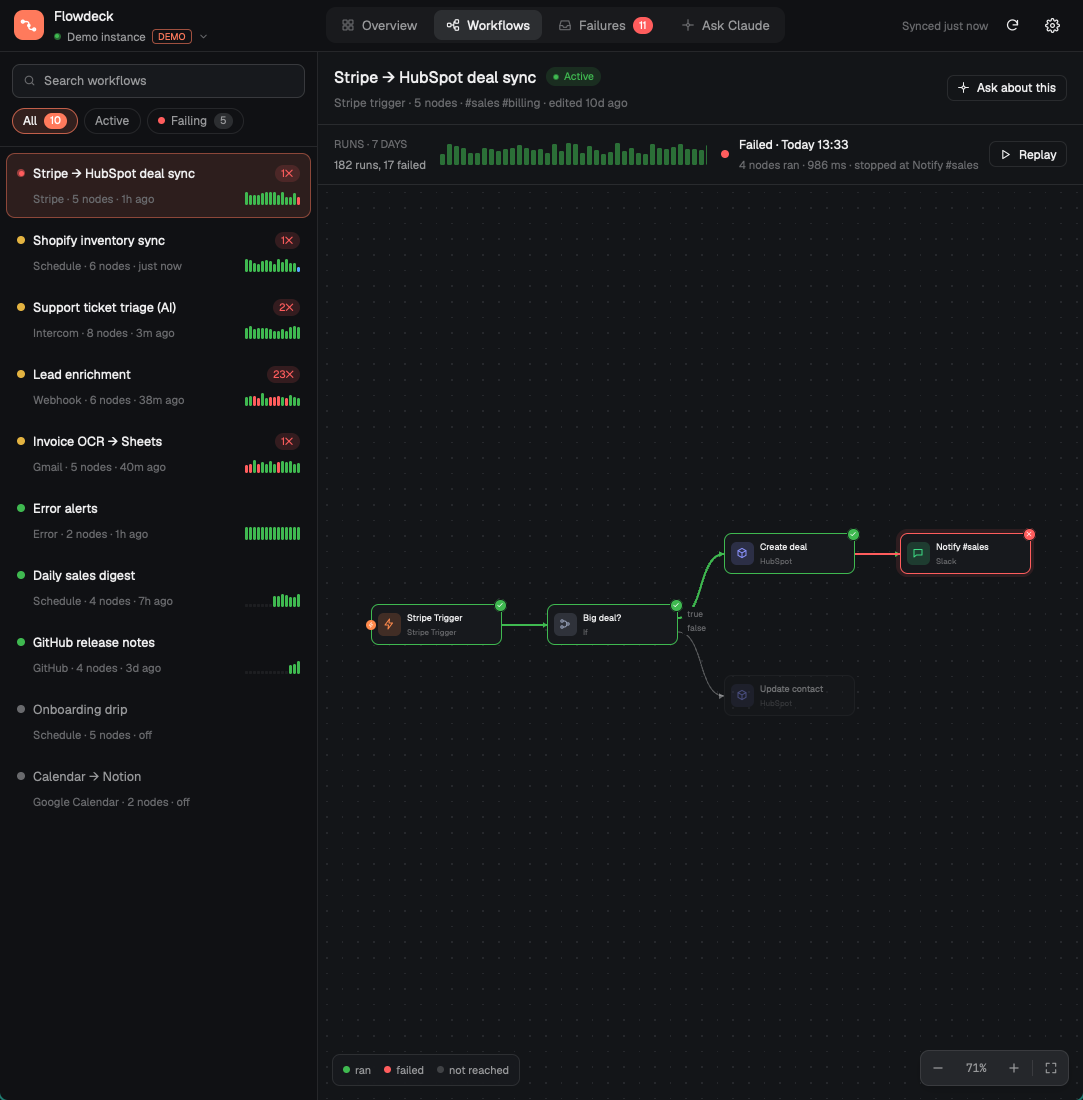
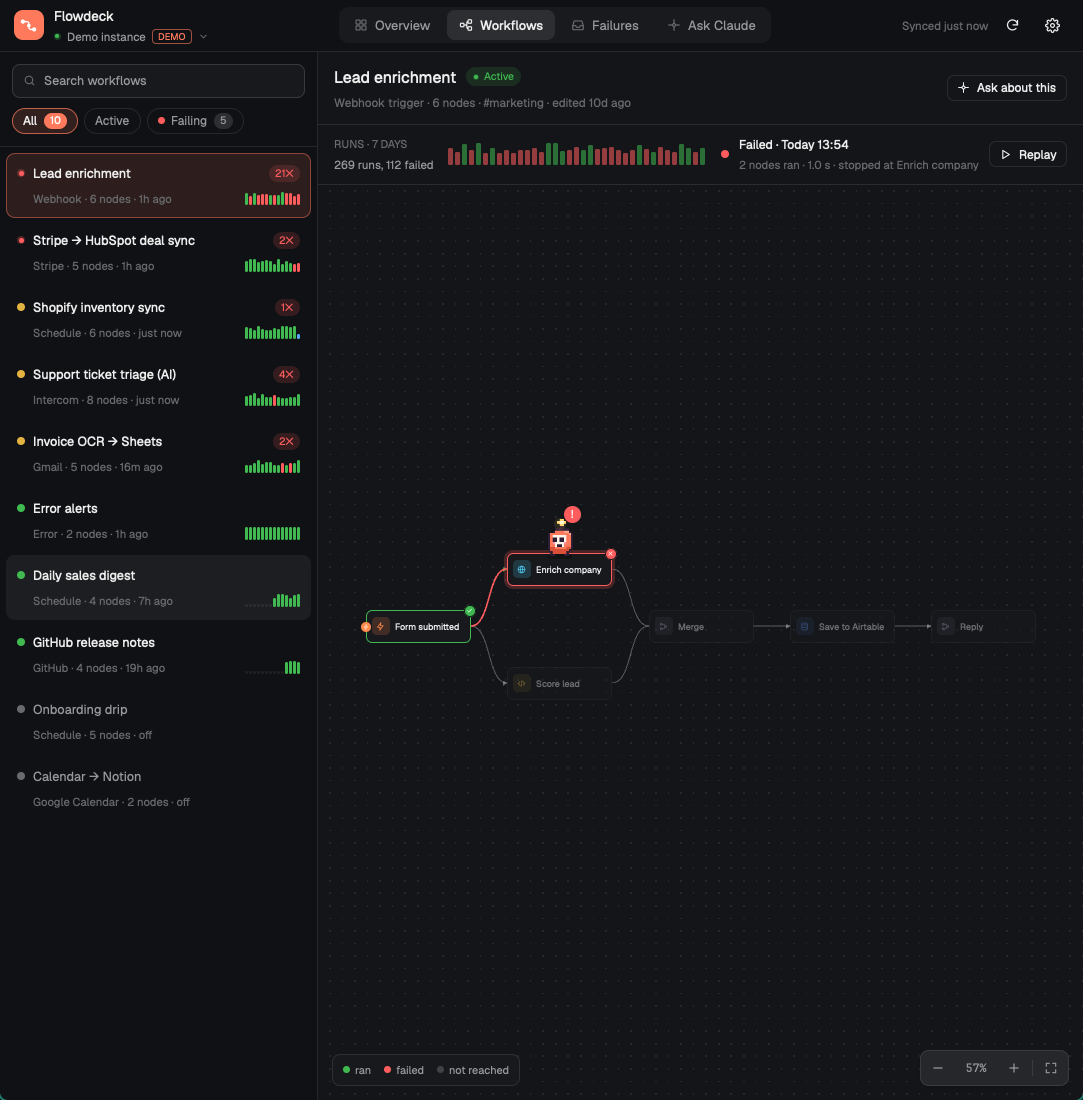
Previews: show Flo

diff --git a/README.md b/README.md
@@ -13,9 +13,9 @@ There's a demo mode with a made-up instance, so you can try it before connecting
 
 ![Workflows](preview.png)
 
-| Overview | Failures |
-|---|---|
-| ![Overview](docs/overview.png) | ![Failures](docs/failures.png) |
+| Overview | Failures | Ask Claude, with Flo following the answer |
+|---|---|---|
+| ![Overview](docs/overview.png) | ![Failures](docs/failures.png) | ![Claude's focus](docs/ask-focus.png) |
 
 ## Install
 
